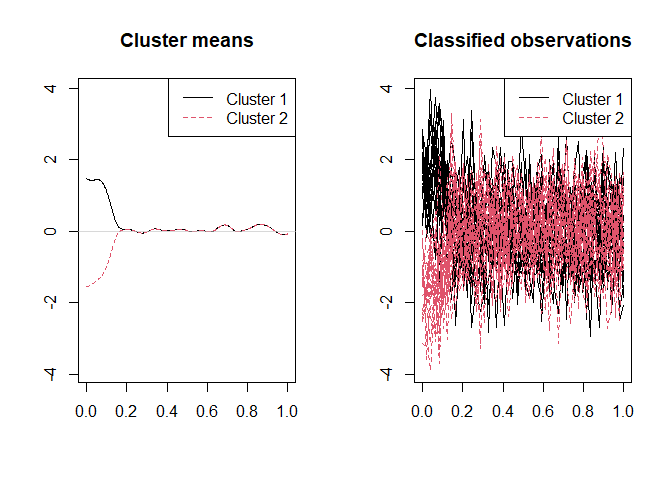
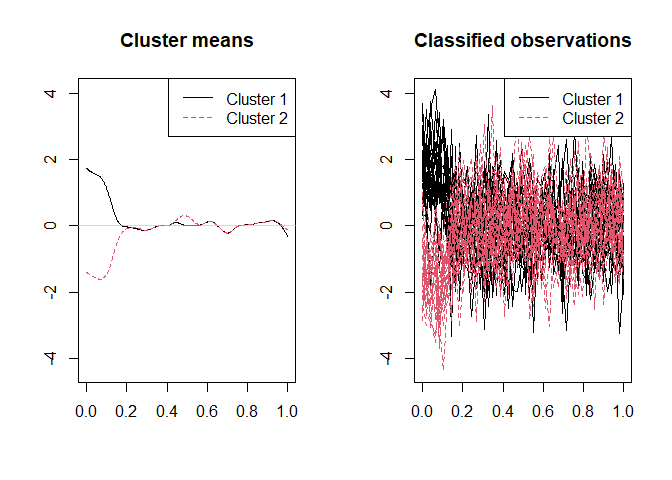
REadme

diff --git a/README.md b/README.md
@@ -15,10 +15,11 @@ a general functional Gaussian mixture model whose parameters are
 estimated by maximizing a log-likelihood function penalized with the
 functional adaptive pairwise fusion penalty (FAPFP) and a roughness
 penalty. The package comprises two main functions and . The former
-performs the SaS-Funclust for fixed number of clusters , tuning
-parameter of the smoothness penalty , and tuning parameter of the FAPFP
-. The latter executes the K-fold cross-validation procedure described in
-Centofanti et al. (2021) to choose , , and .
+performs the SaS-Funclust for fixed number of clusters *G*, tuning
+parameter of the smoothness penalty *λ*<sub>*s*</sub>, and tuning
+parameter of the FAPFP *λ*<sub>*l*</sub>. The latter executes the K-fold
+cross-validation procedure described in Centofanti et al. (2021) to
+choose *G*, *λ*<sub>*s*</sub>, and *λ*<sub>*l*</sub>.
 
 ## Installation
 
@@ -57,7 +58,8 @@ n_i=20
 train<-simulate_data("Scenario I",n_i=n_i,var_e = 1,var_b = 0.5^2)
 ```
 
-To apply , sequences of , , and should be defined.
+To apply , sequences of *G*, *λ*<sub>*s*</sub>, and *λ*<sub>*l*</sub>
+should be defined.
 
 ``` r
 lambda_s_seq=10^seq(-4,-3)
@@ -69,10 +71,10 @@ And, then, is executed.
 
 ``` r
 mod_cv<-sasfclust_cv(X=train$X,grid=train$grid,G_seq=G_seq,
-lambda_l_seq = lambda_l_seq,lambda_s_seq =lambda_s_seq,maxit = 200,K_fold = 5,q=30,ncores=8)
+lambda_l_seq = lambda_l_seq,lambda_s_seq =lambda_s_seq,maxit = 200,K_fold = 2,q=30)
 ```
 
-The result are plotted.
+The results are plotted.
 
 ``` r
 plot(mod_cv)
@@ -80,9 +82,11 @@ plot(mod_cv)
 
 <img src="man/figures/README-unnamed-chunk-6-1.png" width="100%" /> By
 using the model selection method described in Centofanti et al. (2021),
-the optimal values of , , and , are , , and , respectively.
+the optimal values of *G*, *λ*<sub>*s*</sub>, and *λ*<sub>*l*</sub>, are
+2, 10<sup> − 4</sup>, and 10<sup>2</sup>, respectively.
 
-Finally, is applied with , , and fixed to their optimal values.
+Finally, is applied with *G*, *λ*<sub>*s*</sub>, and *λ*<sub>*l*</sub>
+fixed to their optimal values.
 
 ``` r
 mod<-sasfclust(X=train$X,grid=train$grid,G=mod_cv$G_opt,
@@ -94,10 +98,10 @@ functions and the classified curves are obtained as follows.
 
 ``` r
 print(mod$clus$classes)
-#>  [1] 1 1 1 1 1 1 1 1 1 1 1 1 1 1 1 1 1 1 1 1 2 2 2 2 2 2 2 2 2 2 2 2 2 2 2 2 2 2
-#> [39] 2 2
+#>  [1] 2 2 2 2 2 2 2 2 2 2 2 2 2 2 2 2 2 2 2 2 1 1 1 1 1 1 1 1 1 1 1 1 1 1 1 1 1 1
+#> [39] 1 1
 plot(mod)
 ```
 
-<img src="man/figures/README-example-1.png" width="100%" /> \#
+<img src="man/figures/README-unnamed-chunk-8-1.png" width="100%" /> \#
 References

diff --git a/cran-comments.md b/cran-comments.md
@@ -1,0 +1,10 @@
+## Test environments
+* local R installation, R 4.0.2
+* ubuntu 16.04 (on travis-ci), R 4.0.2
+* win-builder (devel)
+
+## R CMD check results
+
+0 errors | 0 warnings | 1 note
+
+* This is a new release.
